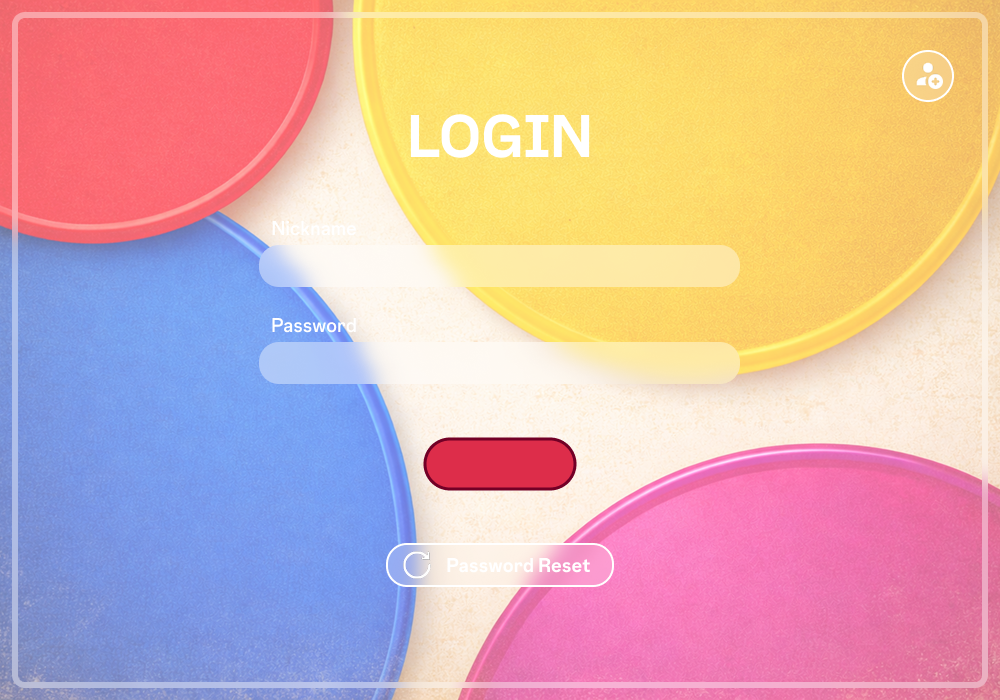
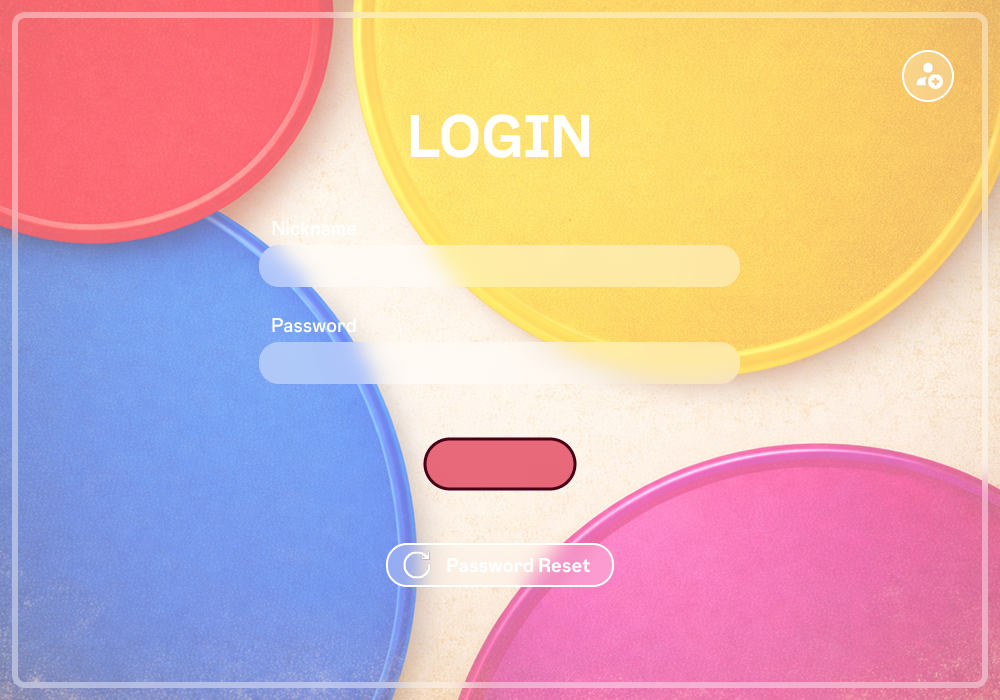
v 1.1.7 - lavoro 30/11/2025 - luca

Changed region(s): [[0.403, 0.6, 0.589, 0.72]]

diff --git a/core/src/main/sorgente/Lobby/LobbyInput.java b/core/src/main/sorgente/Lobby/LobbyInput.java
@@ -38,28 +38,28 @@ public class LobbyInput implements InputProcessor {
     protected boolean btnYesExit;
     protected boolean btnCloseSettings;
     protected boolean btnCloseInfo;
+    protected boolean btnCloseMarket;
+    protected boolean btnCloseScoreboard;
 
     protected boolean classic;
     protected boolean gravity4;
     protected boolean horizontal;
     protected boolean speedy;
     protected boolean scoreboard;
-    protected boolean daily;
+    protected boolean market;
 
     protected boolean settings;
     protected boolean information;
     protected boolean exit;
 
     // hover
-    protected boolean isBtnMarket;
     protected boolean isBtnMarketClicked;
-    protected boolean isBtnSwitch;
     protected boolean isBtnNoExitHover;
     protected boolean isBtnYesExitHover;
     protected boolean isBtnCloseInfoHover;
     protected boolean isBtnCloseSettingsHover;
-    protected boolean isBtnCloseMarket;
     protected boolean isBtnCloseMarketHover;
+    protected boolean isBtnCloseScoreboardHover;
     protected boolean classicHover;
     protected boolean gravity4Hover;
     protected boolean horizontalHover;
@@ -81,7 +81,6 @@ public class LobbyInput implements InputProcessor {
     protected int pendingNextState = -1;
 
     // azione pronta da eseguire fuori (solo per cambio screen / exit)
-    private int readyAction = -1;
     private boolean inputEnabled = true;
 
     // hitbox
@@ -98,6 +97,7 @@ public class LobbyInput implements InputProcessor {
     private Rectangle btnCloseInfoArea;
     private Rectangle btnCloseSettingsArea;
     private Rectangle btnCloseMarketArea;
+    private Rectangle btnCloseScoreboardArea;
 
     private Rectangle btn_no;
     private Rectangle btn_yes;
@@ -122,6 +122,7 @@ public class LobbyInput implements InputProcessor {
     public static final int ACT_OPEN_INFO = 4;
     public static final int ACT_OPEN_SETTINGS = 5;
     public static final int ACT_OPEN_EXIT = 6;
+    public static final int ACT_CLOSE_SCOREBOARD = 7;
 
     public static final int ACT_START_CLASSIC = 10;
     public static final int ACT_START_GRAVITY4 = 11;
@@ -139,10 +140,8 @@ public class LobbyInput implements InputProcessor {
         isWindowOpenSettings=false;
 
 
-        classic = gravity4 = horizontal = speedy = scoreboard = daily = false;
+        classic = gravity4 = horizontal = speedy = scoreboard = market = false;
         settings = information = exit = false;
-
-        isBtnMarket=false;
 
         // creazione hit boxes
         createHitboxes();
@@ -205,6 +204,7 @@ public class LobbyInput implements InputProcessor {
         btnCloseInfoArea = new Rectangle(686,217,40,40);
         btnCloseSettingsArea = new Rectangle(686,245,40,40);
         btnCloseMarketArea= new Rectangle(814,187,40,40);
+        btnCloseScoreboardArea= new Rectangle(814,174,40,40);
 
         btn_no= new Rectangle(503,408,150,50);
         btn_yes= new Rectangle(341,408,150,50);
@@ -218,16 +218,17 @@ public class LobbyInput implements InputProcessor {
         btnNoExit = false;
         btnYesExit = false;
         isBtnMarketClicked = false;
-        isBtnCloseMarket=false;
+        btnCloseMarket=false;
+        btnCloseScoreboard=false;
         classic = false;
         gravity4 = false;
         horizontal = false;
         speedy = false;
-        daily = false;
         scoreboard = false;
         exit = false;
         settings = false;
         information = false;
+        market = false;
     }
 
     // genera il suono al click
@@ -256,8 +257,9 @@ public class LobbyInput implements InputProcessor {
         isBtnCloseMarketHover=false;
         isBtnYesExitHover=false;
         isBtnNoExitHover=false;
+        isBtnCloseScoreboardHover=false;
 
-        isBtnMarket=false;
+        market=false;
 
         starHover[0]=false;
         starHover[1]=false;
@@ -300,10 +302,14 @@ public class LobbyInput implements InputProcessor {
                 return  true;
             }
 
-            if(btnCloseMarketArea.contains(screenX,screenY))
-            {
-              isBtnCloseMarketHover=true;
-              return true;
+            if(btnCloseMarketArea.contains(screenX,screenY)) {
+                isBtnCloseMarketHover=true;
+                return true;
+            }
+
+            if (btnCloseScoreboardArea.contains(screenX,screenY)) {
+                isBtnCloseScoreboardHover=true;
+                return true;
             }
 
             return false;
@@ -352,7 +358,7 @@ public class LobbyInput implements InputProcessor {
 
         // hover per i pulsanti delle schermate secondarie
         if(marketButton.contains(screenX,screenY)) { // mercato
-            isBtnMarket=true;
+            market=true;
             return true;
         }
 
@@ -387,13 +393,14 @@ public class LobbyInput implements InputProcessor {
     }
 
     private void setFalse() {
-        classic = gravity4 = horizontal = speedy = scoreboard = daily = false;
+        classic = gravity4 = horizontal = speedy = scoreboard = market = false;
         settings = information = exit = false;
         btnCloseInfo=false;
         btnCloseSettings=false;
         btnYesExit=false;
         btnNoExit=false;
-        isBtnCloseMarket=false;
+        btnCloseMarket=false;
+        btnCloseScoreboard=false;
     }
 
     // metodo per il controllo dei click
@@ -448,14 +455,12 @@ public class LobbyInput implements InputProcessor {
 
                 // CLICK SULLA BARRA MUSICA
                 if (musicBarArea.contains(x, y)) {
-                    log.info("sono dentro");
                     draggingMusic = true;
                     return clicked();
                 }
 
                 // CLICK SULLA BARRA EFFETTI
                 if (effectsBarArea.contains(x, y)) {
-                    log.info("sono dentro1");
                     draggingEffects = true;
                     return clicked();
                 }
@@ -473,14 +478,23 @@ public class LobbyInput implements InputProcessor {
 
             // chiusura mercato
             if(isWindowOpenMarket && btnCloseMarketArea.contains(x,y)) {
-                btnCloseInfo = true;
+                btnCloseMarket=true;
                 clickedTimer = 0.15f;
                 setInputEnabled(false);
 
-                isBtnCloseMarket=true;
                 scheduleScreenChange(ACT_CLOSE_MARKET, 0.20f);
                 return clicked();
 
+            }
+
+            // chiusura scoreboard
+            if(isWindowOpenScoreboard && btnCloseScoreboardArea.contains(x, y)) {
+                btnCloseScoreboard = true;
+                clickedTimer = 0.15f;
+                setInputEnabled(false);
+
+                scheduleScreenChange(ACT_CLOSE_SCOREBOARD, 0.20f);
+                return clicked();
             }
             return false;
         }
@@ -807,7 +821,11 @@ public class LobbyInput implements InputProcessor {
             case ACT_CLOSE_MARKET:
                 isWindowOpenMarket=false;
                 isBtnMarketClicked=false;
-                isBtnMarket=false;
+                market=false;
+                break;
+
+            case ACT_CLOSE_SCOREBOARD:
+                isWindowOpenScoreboard=false;
                 break;
         }
     }

diff --git a/core/src/main/sorgente/Lobby/LobbyUI.java b/core/src/main/sorgente/Lobby/LobbyUI.java
@@ -357,7 +357,7 @@ public class LobbyUI implements ResourceLoader {
         draw(gameMode_clicked, lobbyInput.horizontal,512, 334);
         draw(gameMode_clicked, lobbyInput.speedy,752, 334);
 
-        draw(market_hover,   lobbyInput.isBtnMarket,833,588);
+        draw(market_hover,   lobbyInput.market,833,588);
         draw(market_clicked, lobbyInput.isBtnMarketClicked,833,588);
 
 
@@ -381,21 +381,21 @@ public class LobbyUI implements ResourceLoader {
         draw(scoreboard,     lobbyInput.isWindowOpenScoreboard,93,142);
         draw(market,         lobbyInput.isWindowOpenMarket,    93,155);
 
-        //--- CHIUSURA ---
-        //schermata marketPlace
-        if(lobbyInput.isWindowOpenMarket) {
+        //--- SCHERMATE IN SOVRA IMPRESSIONE ---
+        // marketPlace
+        if (lobbyInput.isWindowOpenMarket) {
             draw(btn_close,lobbyInput.isBtnCloseMarketHover,822,470);
-            draw(btn_close_clicked, lobbyInput.isBtnCloseMarket, 822, 470);
+            draw(btn_close_clicked, lobbyInput.btnCloseMarket, 822, 470);
         }
 
-        // schermata crediti di gioco
-        if(lobbyInput.isWindowOpenInfo) {
+        // crediti sviluppo gioco
+        if (lobbyInput.isWindowOpenInfo) {
             draw(btn_close,lobbyInput.isBtnCloseInfoHover,694,440);
             draw(btn_close_clicked, lobbyInput.btnCloseInfo, 694, 440);
         }
 
-        // schermata impostazioni
-        if(lobbyInput.isWindowOpenSettings) {
+        // impostazioni
+        if (lobbyInput.isWindowOpenSettings) {
             // finestra impostazioni
             screen.draw(settings, 244, 223);
 
@@ -421,13 +421,22 @@ public class LobbyUI implements ResourceLoader {
             Fonts.bold15.draw(screen, Math.round(LobbyInput.effectsPercent*100)+"%", 700, 275);
         }
 
-        // schermata logout
-        if(lobbyInput.isWindowOpenExit) {
+        // logout
+        if (lobbyInput.isWindowOpenExit) {
             draw(btn_yes,lobbyInput.isBtnYesExitHover,342,244);
             draw(btn_yes_clicked,lobbyInput.btnYesExit,342,244);
 
             draw(btn_no_clicked,lobbyInput.btnNoExit,506,244);
             draw(btn_no,lobbyInput.isBtnNoExitHover,506,244);
+        }
+
+        // scoreboard
+        if (lobbyInput.isWindowOpenScoreboard) {
+            draw(btn_close, lobbyInput.isBtnCloseScoreboardHover,822,482);
+            draw(btn_close_clicked, lobbyInput.btnCloseScoreboard, 822, 482);
+
+            // SCOREBOARD TOP 20 USERS //
+            drawScoreboard(20);
         }
 
         // chiusura batch -> prima chiudere poi passare alla nuova schermata in caso di transizione

diff --git a/core/src/main/sorgente/Authentication/AuthUI.java b/core/src/main/sorgente/Authentication/AuthUI.java
@@ -40,7 +40,7 @@ public class AuthUI extends ScreenAdapter implements ResourceLoader {
     private boolean cursorVisible = true;
 
     // immagini
-    private Texture img1, img2, img3, showPS, coverPS, btnRed,
+    private Texture img1, img2, img3, showPS, coverPS,
         btnRedHover, btnRedClicked, noInternet, btnBack, btnBackClicked, btnLogin, btnLoginClicked,
         btnSignup, btnSignupClicked, btnResetPSW, btnResetPSWClicked;
 
@@ -86,7 +86,6 @@ public class AuthUI extends ScreenAdapter implements ResourceLoader {
         btnLoginClicked    = new Texture("ui/buttons/auth/btn_login_clicked.png");
         btnSignup          = new Texture("ui/buttons/auth/btn_signup.png");
         btnSignupClicked   = new Texture("ui/buttons/auth/btn_signup_clicked.png");
-        btnRed             = new Texture("ui/buttons/auth/red_btn.png");
         btnRedHover        = new Texture("ui/buttons/auth/red_btn_hover.png");
         btnRedClicked      = new Texture("ui/buttons/auth/red_btn_clicked.png");
         btnResetPSW        = new Texture("ui/buttons/auth/btn_reset_password.png");
@@ -371,7 +370,6 @@ public class AuthUI extends ScreenAdapter implements ResourceLoader {
         showPS.dispose();
         coverPS.dispose();
         btnRedClicked.dispose();
-        btnRed.dispose();
         btnRedHover.dispose();
         noInternet.dispose();
         btnBack.dispose();
